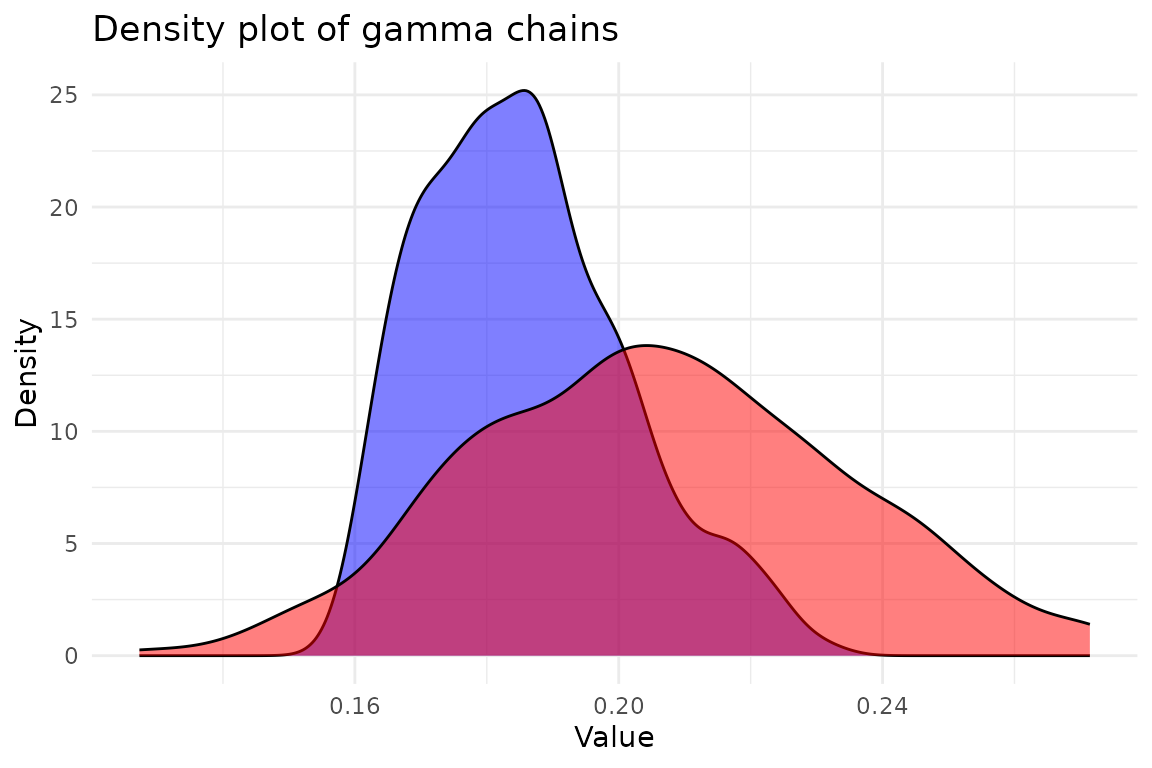
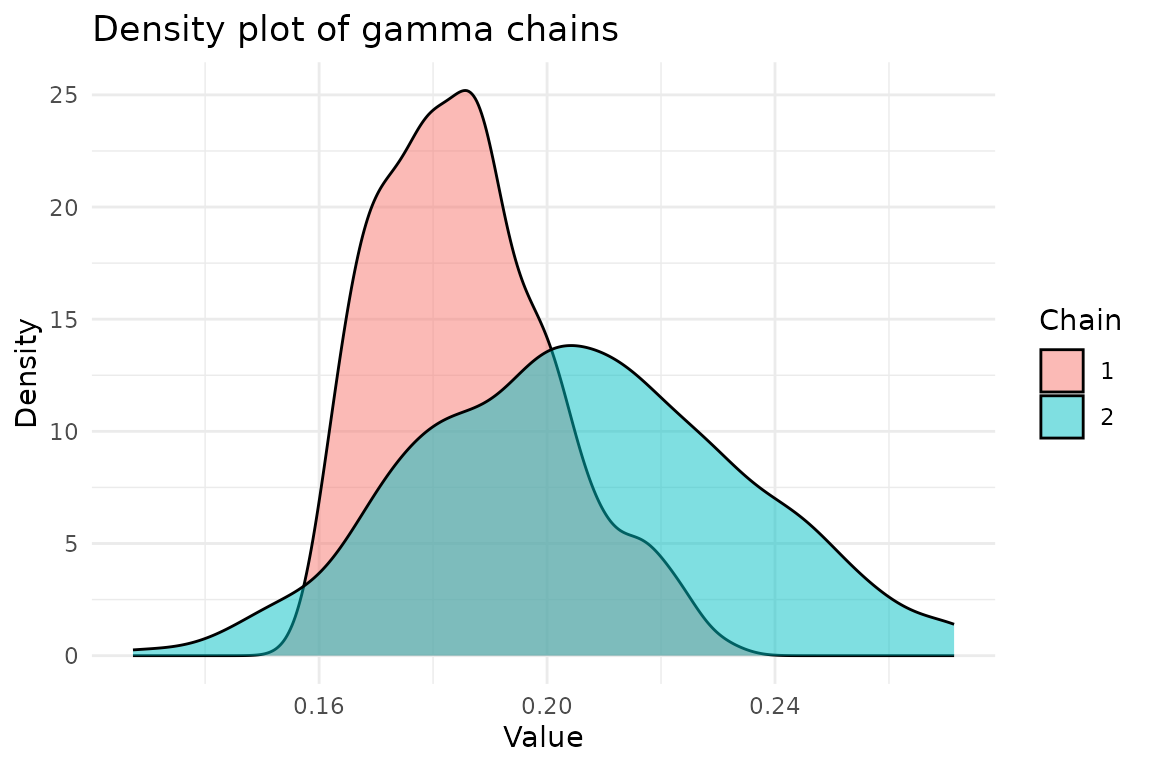
Deploying to gh-pages from @ BjarkeHautop/bayesSSM@ab5239870384afc1316e7e2e91a952d0828a9685 🚀

diff --git a/articles/sir-model.html b/articles/sir-model.html
@@ -26,7 +26,7 @@
 
     <a class="navbar-brand me-2" href="../index.html">bayesSSM</a>
 
-    <small class="nav-text text-muted me-auto" data-bs-toggle="tooltip" data-bs-placement="bottom" title="">0.3.1</small>
+    <small class="nav-text text-muted me-auto" data-bs-toggle="tooltip" data-bs-placement="bottom" title="">0.3.2</small>
 
 
     <button class="navbar-toggler" type="button" data-bs-toggle="collapse" data-bs-target="#navbar" aria-controls="navbar" aria-expanded="false" aria-label="Toggle navigation">
@@ -423,9 +423,9 @@ burn-in of 10). In practice, these should be much higher.</p>
 <span><span class="co">#&gt; Using 100 particles for PMMH:</span></span>
 <span><span class="co">#&gt; Running particle MCMC chain with tuned settings...</span></span>
 <span><span class="co">#&gt; PMMH Results Summary:</span></span>
-<span><span class="co">#&gt;  Parameter Mean   SD Median CI.2.5% CI.97.5% ESS  Rhat</span></span>
-<span><span class="co">#&gt;     lambda 0.54 0.10   0.54    0.39     0.74  25 1.117</span></span>
-<span><span class="co">#&gt;      gamma 0.20 0.02   0.19    0.16     0.25   3 1.051</span></span>
+<span><span class="co">#&gt;  Parameter Mean   SD Median CI Lower.2.5% CI Upper.97.5% ESS  Rhat</span></span>
+<span><span class="co">#&gt;     lambda 0.54 0.10   0.54          0.39           0.74  25 1.117</span></span>
+<span><span class="co">#&gt;      gamma 0.20 0.02   0.19          0.16           0.25   3 1.051</span></span>
 <span><span class="co">#&gt; Warning in bayesSSM::pmmh(y = observations, m = 1000, init_fn =</span></span>
 <span><span class="co">#&gt; init_fn_epidemic, : Some ESS values are below 400, indicating poor mixing.</span></span>
 <span><span class="co">#&gt; Consider running the chains for more iterations.</span></span>
@@ -435,41 +435,30 @@ burn-in of 10). In practice, these should be much higher.</p>
 true values.</p>
 <p>We can access the chains and plot the densities:</p>
 <div class="sourceCode" id="cb8"><pre class="downlit sourceCode r">
-<code class="sourceCode R"><span><span class="va">chains</span> <span class="op">&lt;-</span> <span class="va">result</span><span class="op">$</span><span class="va">theta_chain</span></span>
-<span></span>
-<span><span class="va">chain_1</span> <span class="op">&lt;-</span> <span class="va">chains</span><span class="op">[[</span><span class="fl">1</span><span class="op">]</span><span class="op">]</span></span>
-<span><span class="va">chain_2</span> <span class="op">&lt;-</span> <span class="va">chains</span><span class="op">[[</span><span class="fl">2</span><span class="op">]</span><span class="op">]</span></span></code></pre></div>
+<code class="sourceCode R"><span><span class="va">chains</span> <span class="op">&lt;-</span> <span class="va">result</span><span class="op">$</span><span class="va">theta_chain</span></span></code></pre></div>
 <p>For
 <math display="inline" xmlns="http://www.w3.org/1998/Math/MathML"><semantics><mi>λ</mi><annotation encoding="application/x-tex">\lambda</annotation></semantics></math>:</p>
 <div class="sourceCode" id="cb9"><pre class="downlit sourceCode r">
-<code class="sourceCode R"><span><span class="va">lambda_chains</span> <span class="op">&lt;-</span> <span class="fu"><a href="https://rdrr.io/r/base/cbind.html" class="external-link">cbind</a></span><span class="op">(</span></span>
-<span>  <span class="va">chain_1</span><span class="op">$</span><span class="va">lambda</span>, <span class="va">chain_2</span><span class="op">$</span><span class="va">lambda</span></span>
-<span><span class="op">)</span></span>
-<span></span>
-<span><span class="fu">ggplot2</span><span class="fu">::</span><span class="fu"><a href="https://ggplot2.tidyverse.org/reference/ggplot.html" class="external-link">ggplot</a></span><span class="op">(</span><span class="op">)</span> <span class="op">+</span></span>
-<span>  <span class="fu"><a href="https://ggplot2.tidyverse.org/reference/geom_density.html" class="external-link">geom_density</a></span><span class="op">(</span><span class="fu"><a href="https://ggplot2.tidyverse.org/reference/aes.html" class="external-link">aes</a></span><span class="op">(</span>x <span class="op">=</span> <span class="va">lambda_chains</span><span class="op">[</span>, <span class="fl">1</span><span class="op">]</span><span class="op">)</span>, fill <span class="op">=</span> <span class="st">"blue"</span>, alpha <span class="op">=</span> <span class="fl">0.5</span><span class="op">)</span> <span class="op">+</span></span>
-<span>  <span class="fu"><a href="https://ggplot2.tidyverse.org/reference/geom_density.html" class="external-link">geom_density</a></span><span class="op">(</span><span class="fu"><a href="https://ggplot2.tidyverse.org/reference/aes.html" class="external-link">aes</a></span><span class="op">(</span>x <span class="op">=</span> <span class="va">lambda_chains</span><span class="op">[</span>, <span class="fl">2</span><span class="op">]</span><span class="op">)</span>, fill <span class="op">=</span> <span class="st">"red"</span>, alpha <span class="op">=</span> <span class="fl">0.5</span><span class="op">)</span> <span class="op">+</span></span>
+<code class="sourceCode R"><span><span class="fu"><a href="https://ggplot2.tidyverse.org/reference/ggplot.html" class="external-link">ggplot</a></span><span class="op">(</span><span class="va">chains</span>, <span class="fu"><a href="https://ggplot2.tidyverse.org/reference/aes.html" class="external-link">aes</a></span><span class="op">(</span>x <span class="op">=</span> <span class="va">lambda</span>, fill <span class="op">=</span> <span class="fu"><a href="https://rdrr.io/r/base/factor.html" class="external-link">factor</a></span><span class="op">(</span><span class="va">chain</span><span class="op">)</span><span class="op">)</span><span class="op">)</span> <span class="op">+</span></span>
+<span>  <span class="fu"><a href="https://ggplot2.tidyverse.org/reference/geom_density.html" class="external-link">geom_density</a></span><span class="op">(</span>alpha <span class="op">=</span> <span class="fl">0.5</span><span class="op">)</span> <span class="op">+</span></span>
 <span>  <span class="fu"><a href="https://ggplot2.tidyverse.org/reference/labs.html" class="external-link">labs</a></span><span class="op">(</span></span>
-<span>    title <span class="op">=</span> <span class="st">"Density plot of phi chains"</span>,</span>
+<span>    title <span class="op">=</span> <span class="st">"Density plot of lambda chains"</span>,</span>
 <span>    x <span class="op">=</span> <span class="st">"Value"</span>,</span>
 <span>    y <span class="op">=</span> <span class="st">"Density"</span>,</span>
+<span>    fill <span class="op">=</span> <span class="st">"Chain"</span></span>
 <span>  <span class="op">)</span> <span class="op">+</span></span>
 <span>  <span class="fu"><a href="https://ggplot2.tidyverse.org/reference/ggtheme.html" class="external-link">theme_minimal</a></span><span class="op">(</span><span class="op">)</span></span></code></pre></div>
 <p><img src="sir-model_files/figure-html/unnamed-chunk-9-1.png" alt="Density plot of lambda chains" width="576"></p>
 <p>And for
 <math display="inline" xmlns="http://www.w3.org/1998/Math/MathML"><semantics><mi>γ</mi><annotation encoding="application/x-tex">\gamma</annotation></semantics></math>:</p>
 <div class="sourceCode" id="cb10"><pre class="downlit sourceCode r">
-<code class="sourceCode R"><span><span class="va">gamma_chains</span> <span class="op">&lt;-</span> <span class="fu"><a href="https://rdrr.io/r/base/cbind.html" class="external-link">cbind</a></span><span class="op">(</span></span>
-<span>  <span class="va">chain_1</span><span class="op">$</span><span class="va">gamma</span>, <span class="va">chain_2</span><span class="op">$</span><span class="va">gamma</span></span>
-<span><span class="op">)</span></span>
-<span></span>
-<span><span class="fu">ggplot2</span><span class="fu">::</span><span class="fu"><a href="https://ggplot2.tidyverse.org/reference/ggplot.html" class="external-link">ggplot</a></span><span class="op">(</span><span class="op">)</span> <span class="op">+</span></span>
-<span>  <span class="fu"><a href="https://ggplot2.tidyverse.org/reference/geom_density.html" class="external-link">geom_density</a></span><span class="op">(</span><span class="fu"><a href="https://ggplot2.tidyverse.org/reference/aes.html" class="external-link">aes</a></span><span class="op">(</span>x <span class="op">=</span> <span class="va">gamma_chains</span><span class="op">[</span>, <span class="fl">1</span><span class="op">]</span><span class="op">)</span>, fill <span class="op">=</span> <span class="st">"blue"</span>, alpha <span class="op">=</span> <span class="fl">0.5</span><span class="op">)</span> <span class="op">+</span></span>
-<span>  <span class="fu"><a href="https://ggplot2.tidyverse.org/reference/geom_density.html" class="external-link">geom_density</a></span><span class="op">(</span><span class="fu"><a href="https://ggplot2.tidyverse.org/reference/aes.html" class="external-link">aes</a></span><span class="op">(</span>x <span class="op">=</span> <span class="va">gamma_chains</span><span class="op">[</span>, <span class="fl">2</span><span class="op">]</span><span class="op">)</span>, fill <span class="op">=</span> <span class="st">"red"</span>, alpha <span class="op">=</span> <span class="fl">0.5</span><span class="op">)</span> <span class="op">+</span></span>
+<code class="sourceCode R"><span><span class="fu"><a href="https://ggplot2.tidyverse.org/reference/ggplot.html" class="external-link">ggplot</a></span><span class="op">(</span><span class="va">chains</span>, <span class="fu"><a href="https://ggplot2.tidyverse.org/reference/aes.html" class="external-link">aes</a></span><span class="op">(</span>x <span class="op">=</span> <span class="va">gamma</span>, fill <span class="op">=</span> <span class="fu"><a href="https://rdrr.io/r/base/factor.html" class="external-link">factor</a></span><span class="op">(</span><span class="va">chain</span><span class="op">)</span><span class="op">)</span><span class="op">)</span> <span class="op">+</span></span>
+<span>  <span class="fu"><a href="https://ggplot2.tidyverse.org/reference/geom_density.html" class="external-link">geom_density</a></span><span class="op">(</span>alpha <span class="op">=</span> <span class="fl">0.5</span><span class="op">)</span> <span class="op">+</span></span>
 <span>  <span class="fu"><a href="https://ggplot2.tidyverse.org/reference/labs.html" class="external-link">labs</a></span><span class="op">(</span></span>
 <span>    title <span class="op">=</span> <span class="st">"Density plot of gamma chains"</span>,</span>
 <span>    x <span class="op">=</span> <span class="st">"Value"</span>,</span>
 <span>    y <span class="op">=</span> <span class="st">"Density"</span>,</span>
+<span>    fill <span class="op">=</span> <span class="st">"Chain"</span></span>
 <span>  <span class="op">)</span> <span class="op">+</span></span>
 <span>  <span class="fu"><a href="https://ggplot2.tidyverse.org/reference/ggtheme.html" class="external-link">theme_minimal</a></span><span class="op">(</span><span class="op">)</span></span></code></pre></div>
 <p><img src="sir-model_files/figure-html/unnamed-chunk-10-1.png" alt="Density plot of gamma chains" width="576"></p>

diff --git a/articles/bayesSSM.html b/articles/bayesSSM.html
@@ -26,7 +26,7 @@
 
     <a class="navbar-brand me-2" href="../index.html">bayesSSM</a>
 
-    <small class="nav-text text-muted me-auto" data-bs-toggle="tooltip" data-bs-placement="bottom" title="">0.3.1</small>
+    <small class="nav-text text-muted me-auto" data-bs-toggle="tooltip" data-bs-placement="bottom" title="">0.3.2</small>
 
 
     <button class="navbar-toggler" type="button" data-bs-toggle="collapse" data-bs-target="#navbar" aria-controls="navbar" aria-expanded="false" aria-label="Toggle navigation">
@@ -137,7 +137,7 @@ for the data.</p>
 <span><span class="va">log_likelihood_fn</span> <span class="op">&lt;-</span> <span class="kw">function</span><span class="op">(</span><span class="va">y</span>, <span class="va">particles</span>, <span class="va">sigma_y</span><span class="op">)</span> <span class="op">{</span></span>
 <span>  <span class="fu"><a href="https://rdrr.io/r/stats/Normal.html" class="external-link">dnorm</a></span><span class="op">(</span><span class="va">y</span>, mean <span class="op">=</span> <span class="va">particles</span>, sd <span class="op">=</span> <span class="va">sigma_y</span>, log <span class="op">=</span> <span class="cn">TRUE</span><span class="op">)</span></span>
 <span><span class="op">}</span></span></code></pre></div>
-<p>Since we are interested in bayesian inference, we need to specify the
+<p>Since we are interested in Bayesian inference, we need to specify the
 priors for our parameters. We will use a normal prior for
 <math display="inline" xmlns="http://www.w3.org/1998/Math/MathML"><semantics><mi>ϕ</mi><annotation encoding="application/x-tex">\phi</annotation></semantics></math>
 and exponential priors for
@@ -229,10 +229,10 @@ should be on the
 <span><span class="co">#&gt; Using 212 particles for PMMH:</span></span>
 <span><span class="co">#&gt; Running particle MCMC chain with tuned settings...</span></span>
 <span><span class="co">#&gt; PMMH Results Summary:</span></span>
-<span><span class="co">#&gt;  Parameter Mean   SD Median CI.2.5% CI.97.5% ESS  Rhat</span></span>
-<span><span class="co">#&gt;        phi 0.85 0.06   0.85    0.75     0.97  61 1.008</span></span>
-<span><span class="co">#&gt;    sigma_x 0.81 0.12   0.75    0.69     1.11   1 1.049</span></span>
-<span><span class="co">#&gt;    sigma_y 0.49 0.10   0.47    0.34     0.75   3 1.000</span></span>
+<span><span class="co">#&gt;  Parameter Mean   SD Median CI Lower.2.5% CI Upper.97.5% ESS  Rhat</span></span>
+<span><span class="co">#&gt;        phi 0.85 0.06   0.85          0.75           0.97  61 1.008</span></span>
+<span><span class="co">#&gt;    sigma_x 0.81 0.12   0.75          0.69           1.11   1 1.049</span></span>
+<span><span class="co">#&gt;    sigma_y 0.49 0.10   0.47          0.34           0.75   3 1.000</span></span>
 <span><span class="co">#&gt; Warning in pmmh(y = y, m = 1000, init_fn = init_fn, transition_fn =</span></span>
 <span><span class="co">#&gt; transition_fn, : Some ESS values are below 400, indicating poor mixing.</span></span>
 <span><span class="co">#&gt; Consider running the chains for more iterations.</span></span>
@@ -247,31 +247,23 @@ be printed from any <code>pmmh_output</code> object by calling
 <div class="sourceCode" id="cb7"><pre class="downlit sourceCode r">
 <code class="sourceCode R"><span><span class="fu"><a href="https://rdrr.io/r/base/print.html" class="external-link">print</a></span><span class="op">(</span><span class="va">result</span><span class="op">)</span></span>
 <span><span class="co">#&gt; PMMH Results Summary:</span></span>
-<span><span class="co">#&gt;  Parameter Mean   SD Median CI.2.5% CI.97.5% ESS  Rhat</span></span>
-<span><span class="co">#&gt;        phi 0.85 0.06   0.85    0.75     0.97  61 1.008</span></span>
-<span><span class="co">#&gt;    sigma_x 0.81 0.12   0.75    0.69     1.11   1 1.049</span></span>
-<span><span class="co">#&gt;    sigma_y 0.49 0.10   0.47    0.34     0.75   3 1.000</span></span></code></pre></div>
+<span><span class="co">#&gt;  Parameter Mean   SD Median CI Lower.2.5% CI Upper.97.5% ESS  Rhat</span></span>
+<span><span class="co">#&gt;        phi 0.85 0.06   0.85          0.75           0.97  61 1.008</span></span>
+<span><span class="co">#&gt;    sigma_x 0.81 0.12   0.75          0.69           1.11   1 1.049</span></span>
+<span><span class="co">#&gt;    sigma_y 0.49 0.10   0.47          0.34           0.75   3 1.000</span></span></code></pre></div>
 <p>The chains are saved as <code>theta_chain</code></p>
 <div class="sourceCode" id="cb8"><pre class="downlit sourceCode r">
-<code class="sourceCode R"><span><span class="va">chains</span> <span class="op">&lt;-</span> <span class="va">result</span><span class="op">$</span><span class="va">theta_chain</span></span>
-<span></span>
-<span><span class="va">chain_1</span> <span class="op">&lt;-</span> <span class="va">chains</span><span class="op">[[</span><span class="fl">1</span><span class="op">]</span><span class="op">]</span></span>
-<span><span class="va">chain_2</span> <span class="op">&lt;-</span> <span class="va">chains</span><span class="op">[[</span><span class="fl">2</span><span class="op">]</span><span class="op">]</span></span></code></pre></div>
+<code class="sourceCode R"><span><span class="va">chains</span> <span class="op">&lt;-</span> <span class="va">result</span><span class="op">$</span><span class="va">theta_chain</span></span></code></pre></div>
 <p>Let’s collect the chains for phi from the chains and visualize the
 densities</p>
 <div class="sourceCode" id="cb9"><pre class="downlit sourceCode r">
-<code class="sourceCode R"><span><span class="va">phi_chains</span> <span class="op">&lt;-</span> <span class="fu"><a href="https://rdrr.io/r/base/cbind.html" class="external-link">cbind</a></span><span class="op">(</span></span>
-<span>  <span class="va">chain_1</span><span class="op">$</span><span class="va">phi</span>, <span class="va">chain_2</span><span class="op">$</span><span class="va">phi</span></span>
-<span><span class="op">)</span></span>
-<span></span>
-<span><span class="fu">ggplot2</span><span class="fu">::</span><span class="fu"><a href="https://ggplot2.tidyverse.org/reference/ggplot.html" class="external-link">ggplot</a></span><span class="op">(</span><span class="op">)</span> <span class="op">+</span></span>
-<span>  <span class="fu"><a href="https://ggplot2.tidyverse.org/reference/geom_density.html" class="external-link">geom_density</a></span><span class="op">(</span><span class="fu"><a href="https://ggplot2.tidyverse.org/reference/aes.html" class="external-link">aes</a></span><span class="op">(</span>x <span class="op">=</span> <span class="va">phi_chains</span><span class="op">[</span>, <span class="fl">1</span><span class="op">]</span><span class="op">)</span>, fill <span class="op">=</span> <span class="st">"blue"</span>, alpha <span class="op">=</span> <span class="fl">0.5</span><span class="op">)</span> <span class="op">+</span></span>
-<span>  <span class="fu"><a href="https://ggplot2.tidyverse.org/reference/geom_density.html" class="external-link">geom_density</a></span><span class="op">(</span><span class="fu"><a href="https://ggplot2.tidyverse.org/reference/aes.html" class="external-link">aes</a></span><span class="op">(</span>x <span class="op">=</span> <span class="va">phi_chains</span><span class="op">[</span>, <span class="fl">2</span><span class="op">]</span><span class="op">)</span>, fill <span class="op">=</span> <span class="st">"red"</span>, alpha <span class="op">=</span> <span class="fl">0.5</span><span class="op">)</span> <span class="op">+</span></span>
+<code class="sourceCode R"><span><span class="fu"><a href="https://ggplot2.tidyverse.org/reference/ggplot.html" class="external-link">ggplot</a></span><span class="op">(</span><span class="va">chains</span>, <span class="fu"><a href="https://ggplot2.tidyverse.org/reference/aes.html" class="external-link">aes</a></span><span class="op">(</span>x <span class="op">=</span> <span class="va">phi</span>, fill <span class="op">=</span> <span class="fu"><a href="https://rdrr.io/r/base/factor.html" class="external-link">factor</a></span><span class="op">(</span><span class="va">chain</span><span class="op">)</span><span class="op">)</span><span class="op">)</span> <span class="op">+</span></span>
+<span>  <span class="fu"><a href="https://ggplot2.tidyverse.org/reference/geom_density.html" class="external-link">geom_density</a></span><span class="op">(</span>alpha <span class="op">=</span> <span class="fl">0.5</span><span class="op">)</span> <span class="op">+</span></span>
 <span>  <span class="fu"><a href="https://ggplot2.tidyverse.org/reference/labs.html" class="external-link">labs</a></span><span class="op">(</span></span>
 <span>    title <span class="op">=</span> <span class="st">"Density plot of phi chains"</span>,</span>
 <span>    x <span class="op">=</span> <span class="st">"Value"</span>,</span>
 <span>    y <span class="op">=</span> <span class="st">"Density"</span>,</span>
-<span>    caption <span class="op">=</span> <span class="st">"Blue: Chain 1, Red: Chain 2"</span></span>
+<span>    fill <span class="op">=</span> <span class="st">"Chain"</span></span>
 <span>  <span class="op">)</span> <span class="op">+</span></span>
 <span>  <span class="fu"><a href="https://ggplot2.tidyverse.org/reference/ggtheme.html" class="external-link">theme_minimal</a></span><span class="op">(</span><span class="op">)</span></span></code></pre></div>
 <p><img src="bayesSSM_files/figure-html/unnamed-chunk-9-1.png" alt="Density plot of phi chains." width="576"></p>

diff --git a/reference/print.pmmh_output.html b/reference/print.pmmh_output.html
@@ -7,7 +7,7 @@
 
     <a class="navbar-brand me-2" href="../index.html">bayesSSM</a>
 
-    <small class="nav-text text-muted me-auto" data-bs-toggle="tooltip" data-bs-placement="bottom" title="">0.3.1</small>
+    <small class="nav-text text-muted me-auto" data-bs-toggle="tooltip" data-bs-placement="bottom" title="">0.3.2</small>
 
 
     <button class="navbar-toggler" type="button" data-bs-toggle="collapse" data-bs-target="#navbar" aria-controls="navbar" aria-expanded="false" aria-label="Toggle navigation">
@@ -66,11 +66,10 @@
     <div class="section level2">
     <h2 id="ref-examples">Examples<a class="anchor" aria-label="anchor" href="#ref-examples"></a></h2>
     <div class="sourceCode"><pre class="sourceCode r"><code><span class="r-in"><span><span class="co"># Create dummy chains for two parameters across two chains</span></span></span>
-<span class="r-in"><span><span class="fu"><a href="https://rdrr.io/r/base/Random.html" class="external-link">set.seed</a></span><span class="op">(</span><span class="fl">1405</span><span class="op">)</span></span></span>
-<span class="r-in"><span><span class="va">chain1</span> <span class="op">&lt;-</span> <span class="fu"><a href="https://rdrr.io/r/base/data.frame.html" class="external-link">data.frame</a></span><span class="op">(</span>param1 <span class="op">=</span> <span class="fu"><a href="https://rdrr.io/r/stats/Normal.html" class="external-link">rnorm</a></span><span class="op">(</span><span class="fl">100</span><span class="op">)</span>, param2 <span class="op">=</span> <span class="fu"><a href="https://rdrr.io/r/stats/Normal.html" class="external-link">rnorm</a></span><span class="op">(</span><span class="fl">100</span><span class="op">)</span><span class="op">)</span></span></span>
-<span class="r-in"><span><span class="va">chain2</span> <span class="op">&lt;-</span> <span class="fu"><a href="https://rdrr.io/r/base/data.frame.html" class="external-link">data.frame</a></span><span class="op">(</span>param1 <span class="op">=</span> <span class="fu"><a href="https://rdrr.io/r/stats/Normal.html" class="external-link">rnorm</a></span><span class="op">(</span><span class="fl">100</span><span class="op">)</span>, param2 <span class="op">=</span> <span class="fu"><a href="https://rdrr.io/r/stats/Normal.html" class="external-link">rnorm</a></span><span class="op">(</span><span class="fl">100</span><span class="op">)</span><span class="op">)</span></span></span>
+<span class="r-in"><span><span class="va">chain1</span> <span class="op">&lt;-</span> <span class="fu"><a href="https://rdrr.io/r/base/data.frame.html" class="external-link">data.frame</a></span><span class="op">(</span>param1 <span class="op">=</span> <span class="fu"><a href="https://rdrr.io/r/stats/Normal.html" class="external-link">rnorm</a></span><span class="op">(</span><span class="fl">100</span><span class="op">)</span>, param2 <span class="op">=</span> <span class="fu"><a href="https://rdrr.io/r/stats/Normal.html" class="external-link">rnorm</a></span><span class="op">(</span><span class="fl">100</span><span class="op">)</span>, chain <span class="op">=</span> <span class="fl">1</span><span class="op">)</span></span></span>
+<span class="r-in"><span><span class="va">chain2</span> <span class="op">&lt;-</span> <span class="fu"><a href="https://rdrr.io/r/base/data.frame.html" class="external-link">data.frame</a></span><span class="op">(</span>param1 <span class="op">=</span> <span class="fu"><a href="https://rdrr.io/r/stats/Normal.html" class="external-link">rnorm</a></span><span class="op">(</span><span class="fl">100</span><span class="op">)</span>, param2 <span class="op">=</span> <span class="fu"><a href="https://rdrr.io/r/stats/Normal.html" class="external-link">rnorm</a></span><span class="op">(</span><span class="fl">100</span><span class="op">)</span>, chain <span class="op">=</span> <span class="fl">2</span><span class="op">)</span></span></span>
 <span class="r-in"><span><span class="va">dummy_output</span> <span class="op">&lt;-</span> <span class="fu"><a href="https://rdrr.io/r/base/list.html" class="external-link">list</a></span><span class="op">(</span></span></span>
-<span class="r-in"><span>  theta_chain <span class="op">=</span> <span class="fu"><a href="https://rdrr.io/r/base/list.html" class="external-link">list</a></span><span class="op">(</span><span class="va">chain1</span>, <span class="va">chain2</span><span class="op">)</span>,</span></span>
+<span class="r-in"><span>  theta_chain <span class="op">=</span> <span class="fu"><a href="https://rdrr.io/r/base/cbind.html" class="external-link">rbind</a></span><span class="op">(</span><span class="va">chain1</span>, <span class="va">chain2</span><span class="op">)</span>,</span></span>
 <span class="r-in"><span>  diagnostics <span class="op">=</span> <span class="fu"><a href="https://rdrr.io/r/base/list.html" class="external-link">list</a></span><span class="op">(</span></span></span>
 <span class="r-in"><span>    ess <span class="op">=</span> <span class="fu"><a href="https://rdrr.io/r/base/c.html" class="external-link">c</a></span><span class="op">(</span>param1 <span class="op">=</span> <span class="fl">200</span>, param2 <span class="op">=</span> <span class="fl">190</span><span class="op">)</span>,</span></span>
 <span class="r-in"><span>    rhat <span class="op">=</span> <span class="fu"><a href="https://rdrr.io/r/base/c.html" class="external-link">c</a></span><span class="op">(</span>param1 <span class="op">=</span> <span class="fl">1.01</span>, param2 <span class="op">=</span> <span class="fl">1.00</span><span class="op">)</span></span></span>
@@ -79,9 +78,9 @@
 <span class="r-in"><span><span class="fu"><a href="https://rdrr.io/r/base/class.html" class="external-link">class</a></span><span class="op">(</span><span class="va">dummy_output</span><span class="op">)</span> <span class="op">&lt;-</span> <span class="st">"pmmh_output"</span></span></span>
 <span class="r-in"><span><span class="fu"><a href="https://rdrr.io/r/base/print.html" class="external-link">print</a></span><span class="op">(</span><span class="va">dummy_output</span><span class="op">)</span></span></span>
 <span class="r-out co"><span class="r-pr">#&gt;</span> PMMH Results Summary:</span>
-<span class="r-out co"><span class="r-pr">#&gt;</span>  Parameter  Mean   SD Median CI.2.5% CI.97.5% ESS Rhat</span>
-<span class="r-out co"><span class="r-pr">#&gt;</span>     param1 -0.02 0.94   0.04   -1.85     1.71 200 1.01</span>
-<span class="r-out co"><span class="r-pr">#&gt;</span>     param2  0.03 1.01   0.00   -1.84     2.40 190 1.00</span>
+<span class="r-out co"><span class="r-pr">#&gt;</span>  Parameter Mean   SD Median CI Lower.2.5% CI Upper.97.5% ESS Rhat</span>
+<span class="r-out co"><span class="r-pr">#&gt;</span>     param1 0.11 0.93   0.11         -1.68           2.00 200 1.01</span>
+<span class="r-out co"><span class="r-pr">#&gt;</span>     param2 0.04 1.00   0.09         -1.91           2.08 190 1.00</span>
 </code></pre></div>
     </div>
   </main><aside class="col-md-3"><nav id="toc" aria-label="Table of contents"><h2>On this page</h2>

diff --git a/reference/pmmh.html b/reference/pmmh.html
@@ -13,7 +13,7 @@ particles for the particle filter, and then runs the main PMMH chain."><meta pro
 
     <a class="navbar-brand me-2" href="../index.html">bayesSSM</a>
 
-    <small class="nav-text text-muted me-auto" data-bs-toggle="tooltip" data-bs-placement="bottom" title="">0.3.1</small>
+    <small class="nav-text text-muted me-auto" data-bs-toggle="tooltip" data-bs-placement="bottom" title="">0.3.2</small>
 
 
     <button class="navbar-toggler" type="button" data-bs-toggle="collapse" data-bs-target="#navbar" aria-controls="navbar" aria-expanded="false" aria-label="Toggle navigation">
@@ -174,7 +174,7 @@ using more than one core.</p></dd>
     <div class="section level2">
     <h2 id="value">Value<a class="anchor" aria-label="anchor" href="#value"></a></h2>
     <p>A list containing:</p><dl><dt><code>theta_chain</code></dt>
-<dd><p>A matrix of post burn-in parameter samples.</p></dd>
+<dd><p>A dataframe of post burn-in parameter samples.</p></dd>
 
   <dt><code>latent_state_chain</code></dt>
 <dd><p>If <code>return_latent_state_est</code> is
@@ -270,10 +270,10 @@ Journal of the Royal Statistical Society: Series B (Statistical Methodology),
 <span class="r-msg co"><span class="r-pr">#&gt;</span> Using 100 particles for PMMH:</span>
 <span class="r-msg co"><span class="r-pr">#&gt;</span> Running particle MCMC chain with tuned settings...</span>
 <span class="r-out co"><span class="r-pr">#&gt;</span> PMMH Results Summary:</span>
-<span class="r-out co"><span class="r-pr">#&gt;</span>  Parameter Mean   SD Median CI.2.5% CI.97.5% ESS  Rhat</span>
-<span class="r-out co"><span class="r-pr">#&gt;</span>        phi 0.87 0.08   0.88    0.70     1.00 166 1.023</span>
-<span class="r-out co"><span class="r-pr">#&gt;</span>    sigma_x 0.55 0.35   0.55    0.01     1.26  32 1.002</span>
-<span class="r-out co"><span class="r-pr">#&gt;</span>    sigma_y 0.73 0.30   0.77    0.14     1.25  26 1.011</span>
+<span class="r-out co"><span class="r-pr">#&gt;</span>  Parameter Mean   SD Median CI Lower.2.5% CI Upper.97.5% ESS  Rhat</span>
+<span class="r-out co"><span class="r-pr">#&gt;</span>        phi 0.87 0.08   0.88          0.70           1.00 166 1.023</span>
+<span class="r-out co"><span class="r-pr">#&gt;</span>    sigma_x 0.55 0.35   0.55          0.01           1.26  32 1.002</span>
+<span class="r-out co"><span class="r-pr">#&gt;</span>    sigma_y 0.73 0.30   0.77          0.14           1.25  26 1.011</span>
 <span class="r-wrn co"><span class="r-pr">#&gt;</span> <span class="warning">Warning: </span>Some ESS values are below 400, indicating poor mixing. Consider running the chains for more iterations.</span>
 <span class="r-wrn co"><span class="r-pr">#&gt;</span> <span class="warning">Warning: </span></span>
 <span class="r-wrn co"><span class="r-pr">#&gt;</span> Some Rhat values are above 1.01, indicating that the chains have not converged. Consider running the chains for more iterations and/or increase burn_in.</span>

diff --git a/index.html b/index.html
@@ -29,7 +29,7 @@
 
     <a class="navbar-brand me-2" href="index.html">bayesSSM</a>
 
-    <small class="nav-text text-muted me-auto" data-bs-toggle="tooltip" data-bs-placement="bottom" title="">0.3.1</small>
+    <small class="nav-text text-muted me-auto" data-bs-toggle="tooltip" data-bs-placement="bottom" title="">0.3.2</small>
 
 
     <button class="navbar-toggler" type="button" data-bs-toggle="collapse" data-bs-target="#navbar" aria-controls="navbar" aria-expanded="false" aria-label="Toggle navigation">
@@ -171,16 +171,16 @@
 <span><span class="co">#&gt; Using 100 particles for PMMH:</span></span>
 <span><span class="co">#&gt; Running particle MCMC chain with tuned settings...</span></span>
 <span><span class="co">#&gt; PMMH Results Summary:</span></span>
-<span><span class="co">#&gt;  Parameter Mean   SD Median CI.2.5% CI.97.5% ESS  Rhat</span></span>
-<span><span class="co">#&gt;        phi 0.72 0.11   0.74    0.45     0.92  28 1.007</span></span>
-<span><span class="co">#&gt;    sigma_x 0.42 0.29   0.41    0.01     1.04  39 1.026</span></span>
-<span><span class="co">#&gt;    sigma_y 0.84 0.20   0.84    0.44     1.19  39 1.019</span></span>
+<span><span class="co">#&gt;  Parameter Mean   SD Median CI Lower.2.5% CI Upper.97.5% ESS  Rhat</span></span>
+<span><span class="co">#&gt;        phi 0.78 0.11   0.78          0.53           1.00  27 1.054</span></span>
+<span><span class="co">#&gt;    sigma_x 1.14 0.20   1.15          0.78           1.59   5 1.008</span></span>
+<span><span class="co">#&gt;    sigma_y 0.36 0.22   0.29          0.06           0.91  17 1.143</span></span>
 <span><span class="co">#&gt; Warning in pmmh(y = y, m = 500, init_fn = init_fn, transition_fn =</span></span>
 <span><span class="co">#&gt; transition_fn, : Some ESS values are below 400, indicating poor mixing.</span></span>
 <span><span class="co">#&gt; Consider running the chains for more iterations.</span></span>
 <span><span class="co">#&gt; Warning in pmmh(y = y, m = 500, init_fn = init_fn, transition_fn = transition_fn, : </span></span>
 <span><span class="co">#&gt; Some Rhat values are above 1.01, indicating that the chains have not converged. Consider running the chains for more iterations and/or increase burn_in.</span></span></code></pre></div>
-<p>We get convergence warnings because we only ran the algorithm for a small number of samples.</p>
+<p>We get convergence warnings as expected due to the small number of iterations.</p>
 </div>
 <div class="section level2">
 <h2 id="state-space-models">State-space Models<a class="anchor" aria-label="anchor" href="#state-space-models"></a>

diff --git a/reference/rhat.html b/reference/rhat.html
@@ -7,7 +7,7 @@
 
     <a class="navbar-brand me-2" href="../index.html">bayesSSM</a>
 
-    <small class="nav-text text-muted me-auto" data-bs-toggle="tooltip" data-bs-placement="bottom" title="">0.3.1</small>
+    <small class="nav-text text-muted me-auto" data-bs-toggle="tooltip" data-bs-placement="bottom" title="">0.3.2</small>
 
 
     <button class="navbar-toggler" type="button" data-bs-toggle="collapse" data-bs-target="#navbar" aria-controls="navbar" aria-expanded="false" aria-label="Toggle navigation">
@@ -70,7 +70,7 @@
     <h2 id="ref-examples">Examples<a class="anchor" aria-label="anchor" href="#ref-examples"></a></h2>
     <div class="sourceCode"><pre class="sourceCode r"><code><span class="r-in"><span><span class="va">chains</span> <span class="op">&lt;-</span> <span class="fu"><a href="https://rdrr.io/r/base/matrix.html" class="external-link">matrix</a></span><span class="op">(</span><span class="fu"><a href="https://rdrr.io/r/stats/Normal.html" class="external-link">rnorm</a></span><span class="op">(</span><span class="fl">3000</span><span class="op">)</span>, nrow <span class="op">=</span> <span class="fl">1000</span>, ncol <span class="op">=</span> <span class="fl">3</span><span class="op">)</span></span></span>
 <span class="r-in"><span><span class="fu">rhat</span><span class="op">(</span><span class="va">chains</span><span class="op">)</span></span></span>
-<span class="r-out co"><span class="r-pr">#&gt;</span> [1] 1</span>
+<span class="r-out co"><span class="r-pr">#&gt;</span> [1] 1.000965</span>
 </code></pre></div>
     </div>
   </main><aside class="col-md-3"><nav id="toc" aria-label="Table of contents"><h2>On this page</h2>

diff --git a/authors.html b/authors.html
@@ -7,7 +7,7 @@
 
     <a class="navbar-brand me-2" href="index.html">bayesSSM</a>
 
-    <small class="nav-text text-muted me-auto" data-bs-toggle="tooltip" data-bs-placement="bottom" title="">0.3.1</small>
+    <small class="nav-text text-muted me-auto" data-bs-toggle="tooltip" data-bs-placement="bottom" title="">0.3.2</small>
 
 
     <button class="navbar-toggler" type="button" data-bs-toggle="collapse" data-bs-target="#navbar" aria-controls="navbar" aria-expanded="false" aria-label="Toggle navigation">
@@ -49,13 +49,13 @@
 
       <p>Hautop B (2025).
 <em>bayesSSM: Bayesian Methods for State Space Models</em>.
-R package version 0.3.1, https://bjarkehautop.github.io/bayesSSM/, <a href="https://github.com/BjarkeHautop/bayesSSM" class="external-link">https://github.com/BjarkeHautop/bayesSSM</a>.
+R package version 0.3.2, https://bjarkehautop.github.io/bayesSSM/, <a href="https://github.com/BjarkeHautop/bayesSSM" class="external-link">https://github.com/BjarkeHautop/bayesSSM</a>.
 </p>
       <pre>@Manual{,
   title = {bayesSSM: Bayesian Methods for State Space Models},
   author = {Bjarke Hautop},
   year = {2025},
-  note = {R package version 0.3.1, https://bjarkehautop.github.io/bayesSSM/},
+  note = {R package version 0.3.2, https://bjarkehautop.github.io/bayesSSM/},
   url = {https://github.com/BjarkeHautop/bayesSSM},
 }</pre>
     </div>

diff --git a/reference/particle_filter.html b/reference/particle_filter.html
@@ -25,7 +25,7 @@ It is recommended to use either SISR or SISAR to avoid weight degeneracy."><meta
 
     <a class="navbar-brand me-2" href="../index.html">bayesSSM</a>
 
-    <small class="nav-text text-muted me-auto" data-bs-toggle="tooltip" data-bs-placement="bottom" title="">0.3.1</small>
+    <small class="nav-text text-muted me-auto" data-bs-toggle="tooltip" data-bs-placement="bottom" title="">0.3.2</small>
 
 
     <button class="navbar-toggler" type="button" data-bs-toggle="collapse" data-bs-target="#navbar" aria-controls="navbar" aria-expanded="false" aria-label="Toggle navigation">

diff --git a/reference/dot-resample_multinomial.html b/reference/dot-resample_multinomial.html
@@ -9,7 +9,7 @@ These functions implement multinomial, stratified, and systematic resampling."><
 
     <a class="navbar-brand me-2" href="../index.html">bayesSSM</a>
 
-    <small class="nav-text text-muted me-auto" data-bs-toggle="tooltip" data-bs-placement="bottom" title="">0.3.1</small>
+    <small class="nav-text text-muted me-auto" data-bs-toggle="tooltip" data-bs-placement="bottom" title="">0.3.2</small>
 
 
     <button class="navbar-toggler" type="button" data-bs-toggle="collapse" data-bs-target="#navbar" aria-controls="navbar" aria-expanded="false" aria-label="Toggle navigation">

diff --git a/reference/dot-pilot_run.html b/reference/dot-pilot_run.html
@@ -13,7 +13,7 @@ target number of particles for the Particle Marginal Metropolis Hastings
 
     <a class="navbar-brand me-2" href="../index.html">bayesSSM</a>
 
-    <small class="nav-text text-muted me-auto" data-bs-toggle="tooltip" data-bs-placement="bottom" title="">0.3.1</small>
+    <small class="nav-text text-muted me-auto" data-bs-toggle="tooltip" data-bs-placement="bottom" title="">0.3.2</small>
 
 
     <button class="navbar-toggler" type="button" data-bs-toggle="collapse" data-bs-target="#navbar" aria-controls="navbar" aria-expanded="false" aria-label="Toggle navigation">

diff --git a/reference/default_tune_control.html b/reference/default_tune_control.html
@@ -11,7 +11,7 @@ pmmh function. The tuning choices are inspired by Pitt et al.
 
     <a class="navbar-brand me-2" href="../index.html">bayesSSM</a>
 
-    <small class="nav-text text-muted me-auto" data-bs-toggle="tooltip" data-bs-placement="bottom" title="">0.3.1</small>
+    <small class="nav-text text-muted me-auto" data-bs-toggle="tooltip" data-bs-placement="bottom" title="">0.3.2</small>
 
 
     <button class="navbar-toggler" type="button" data-bs-toggle="collapse" data-bs-target="#navbar" aria-controls="navbar" aria-expanded="false" aria-label="Toggle navigation">

diff --git a/404.html b/404.html
@@ -27,7 +27,7 @@
 
     <a class="navbar-brand me-2" href="https://bjarkehautop.github.io/bayesSSM/index.html">bayesSSM</a>
 
-    <small class="nav-text text-muted me-auto" data-bs-toggle="tooltip" data-bs-placement="bottom" title="">0.3.1</small>
+    <small class="nav-text text-muted me-auto" data-bs-toggle="tooltip" data-bs-placement="bottom" title="">0.3.2</small>
 
 
     <button class="navbar-toggler" type="button" data-bs-toggle="collapse" data-bs-target="#navbar" aria-controls="navbar" aria-expanded="false" aria-label="Toggle navigation">
